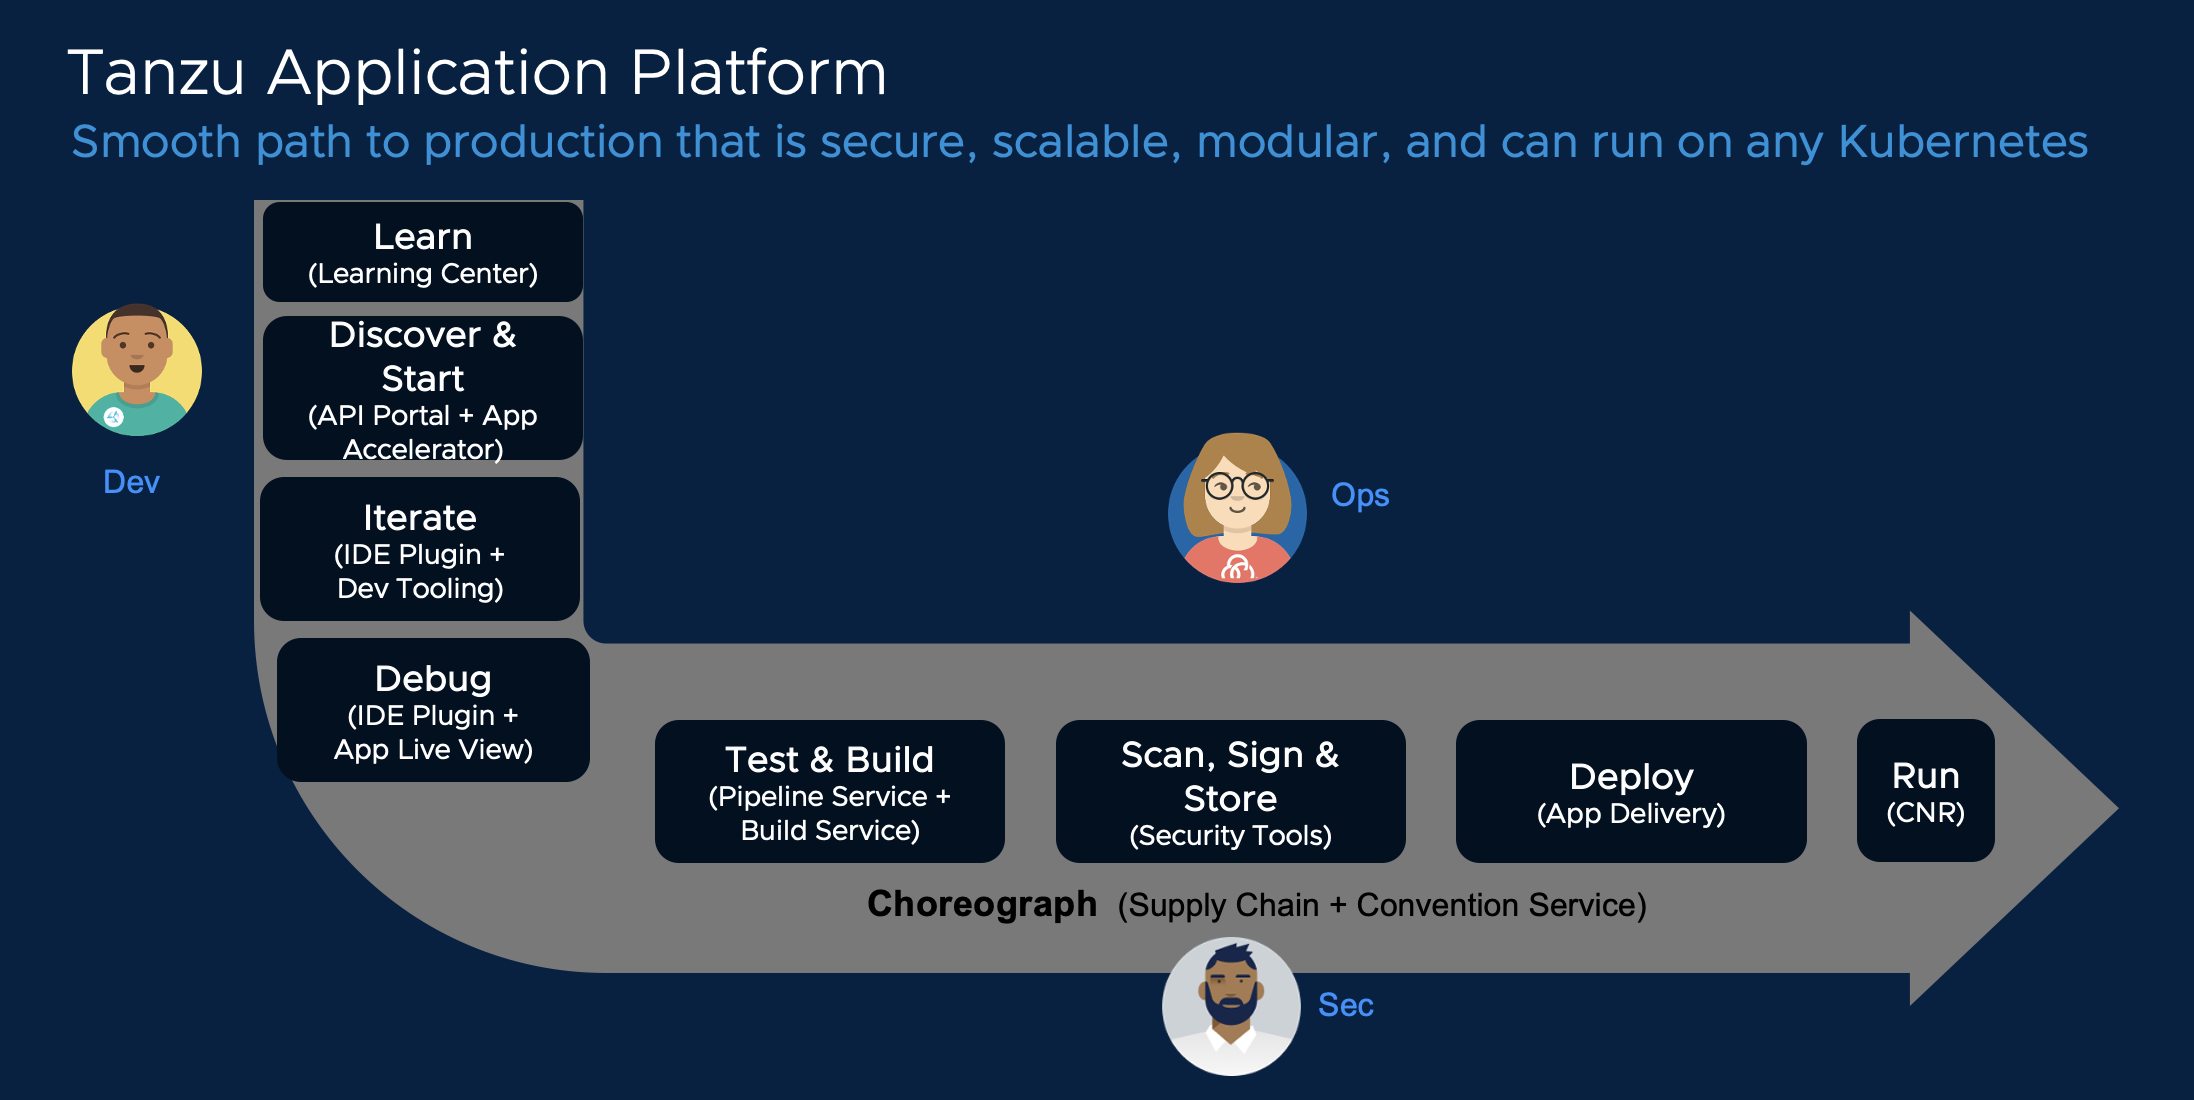
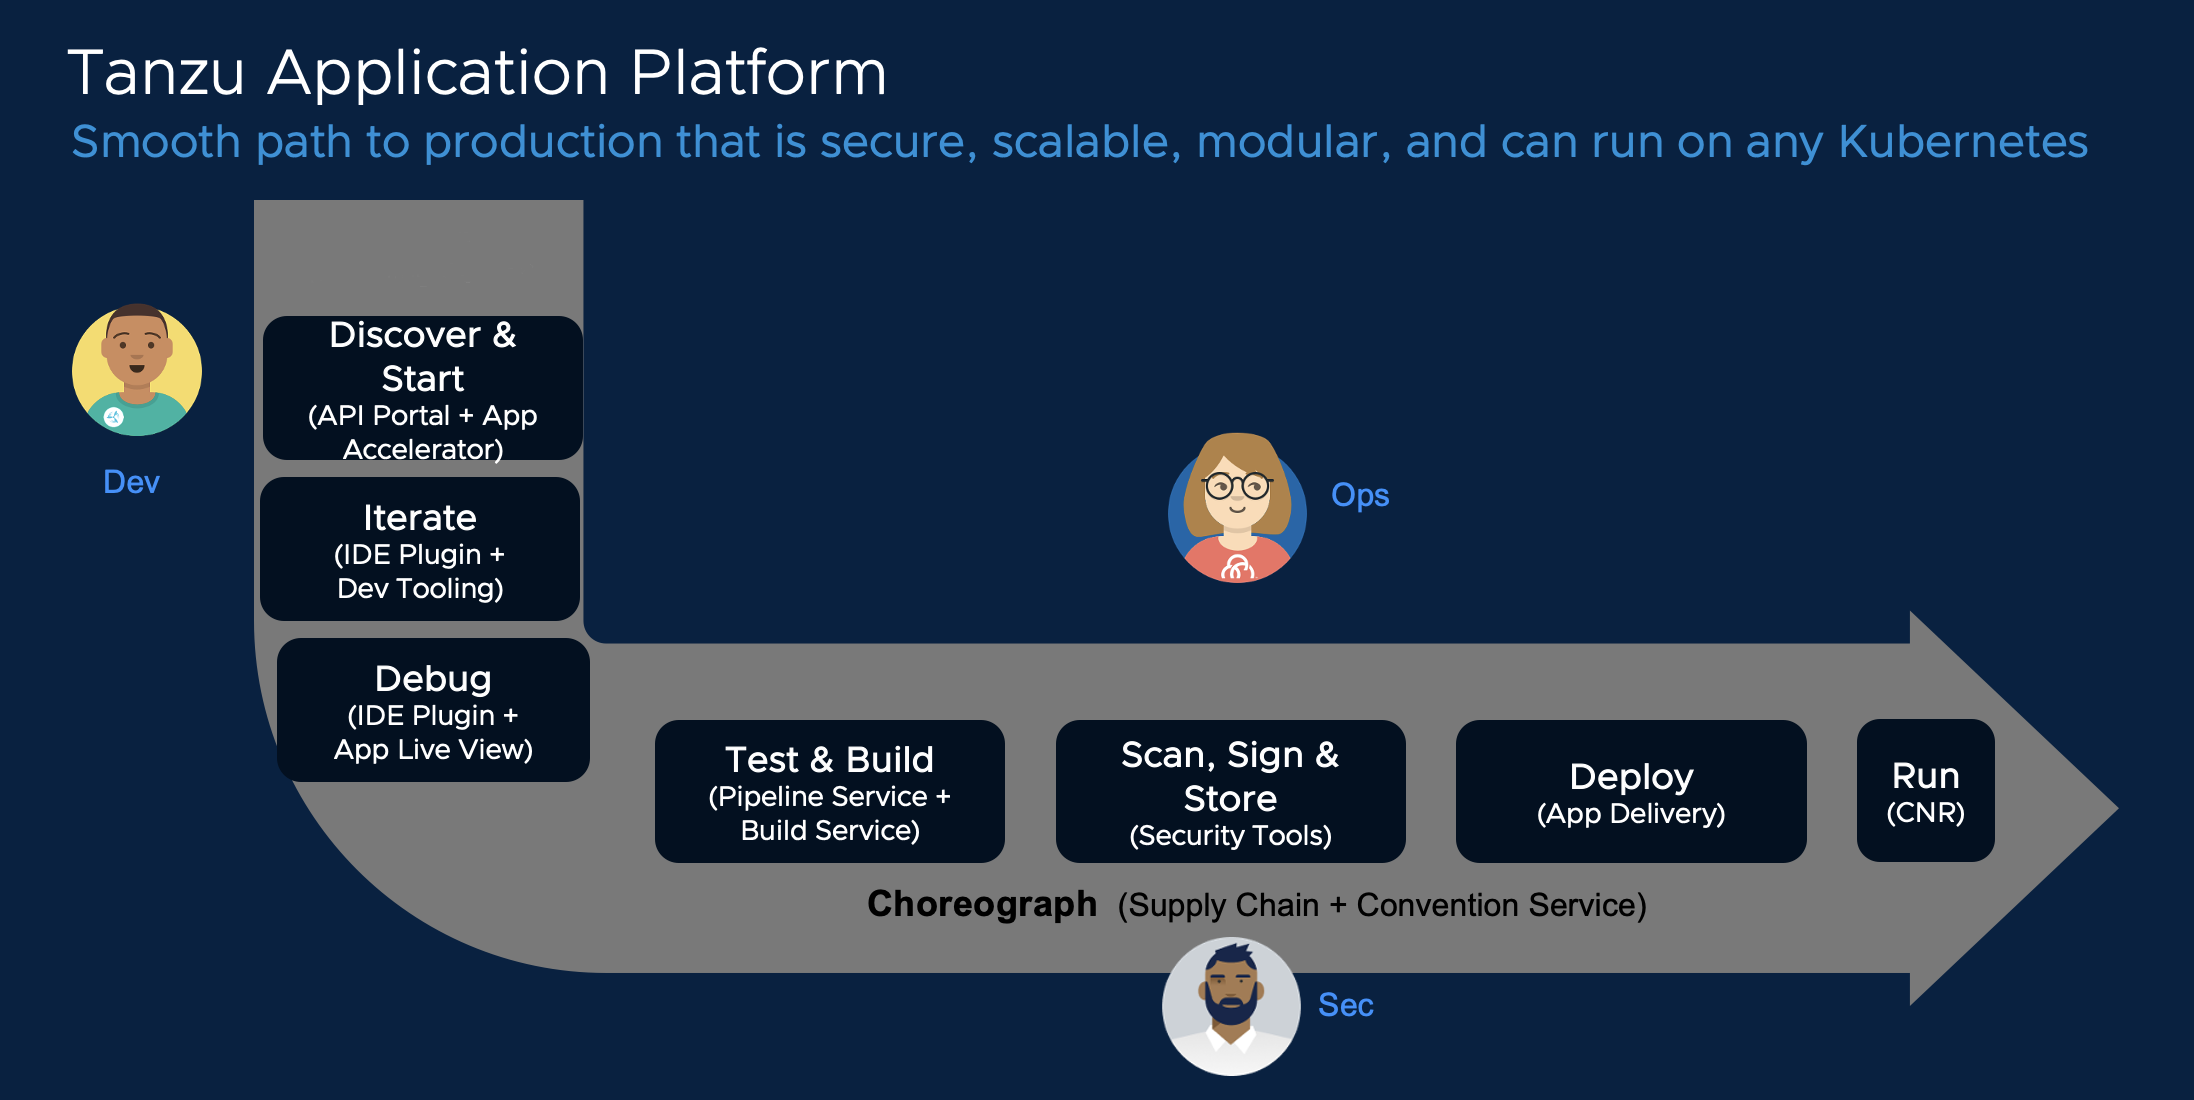
Removing Learning Center references

Changed region(s): [[0.093, 0.1855, 0.2789, 0.2782]]

diff --git a/workshop/content/exercises/03-IDE-Tools.md b/workshop/content/exercises/03-IDE-Tools.md
@@ -16,7 +16,7 @@ This is a Java web application, let's take a look at the source code:
 file: spring-sensors/src/main/java/org/tanzu/demo/DemoController.java
 ```
 
-With Learning Center, we are using the embedded Coder dev environment that runs in your browser. Of course, you can also code on your local machine using supported IDEs like Visual Studio Code and IntelliJ IDEA. In our app, we see HTTP endpoints defined for generating and displaying sensor data. Give the embdedded Coder a few seconds to complete initialization; in the bottom right blue bar of the embedded Coder editor, you will see Java and a thumbs up symbol when initialization is complete.  Let's use the Developer Tooling in Tanzu Application Platform to run the application.
+With this environment, we are using the embedded Coder dev environment that runs in your browser. Of course, you can also code on your local machine using supported IDEs like Visual Studio Code and IntelliJ IDEA. In our app, we see HTTP endpoints defined for generating and displaying sensor data. Give the embdedded Coder a few seconds to complete initialization; in the bottom right blue bar of the embedded Coder editor, you will see Java and a thumbs up symbol when initialization is complete.  Let's use the Developer Tooling in Tanzu Application Platform to run the application.
 
 ```editor:open-file
 file: spring-sensors/Tiltfile
